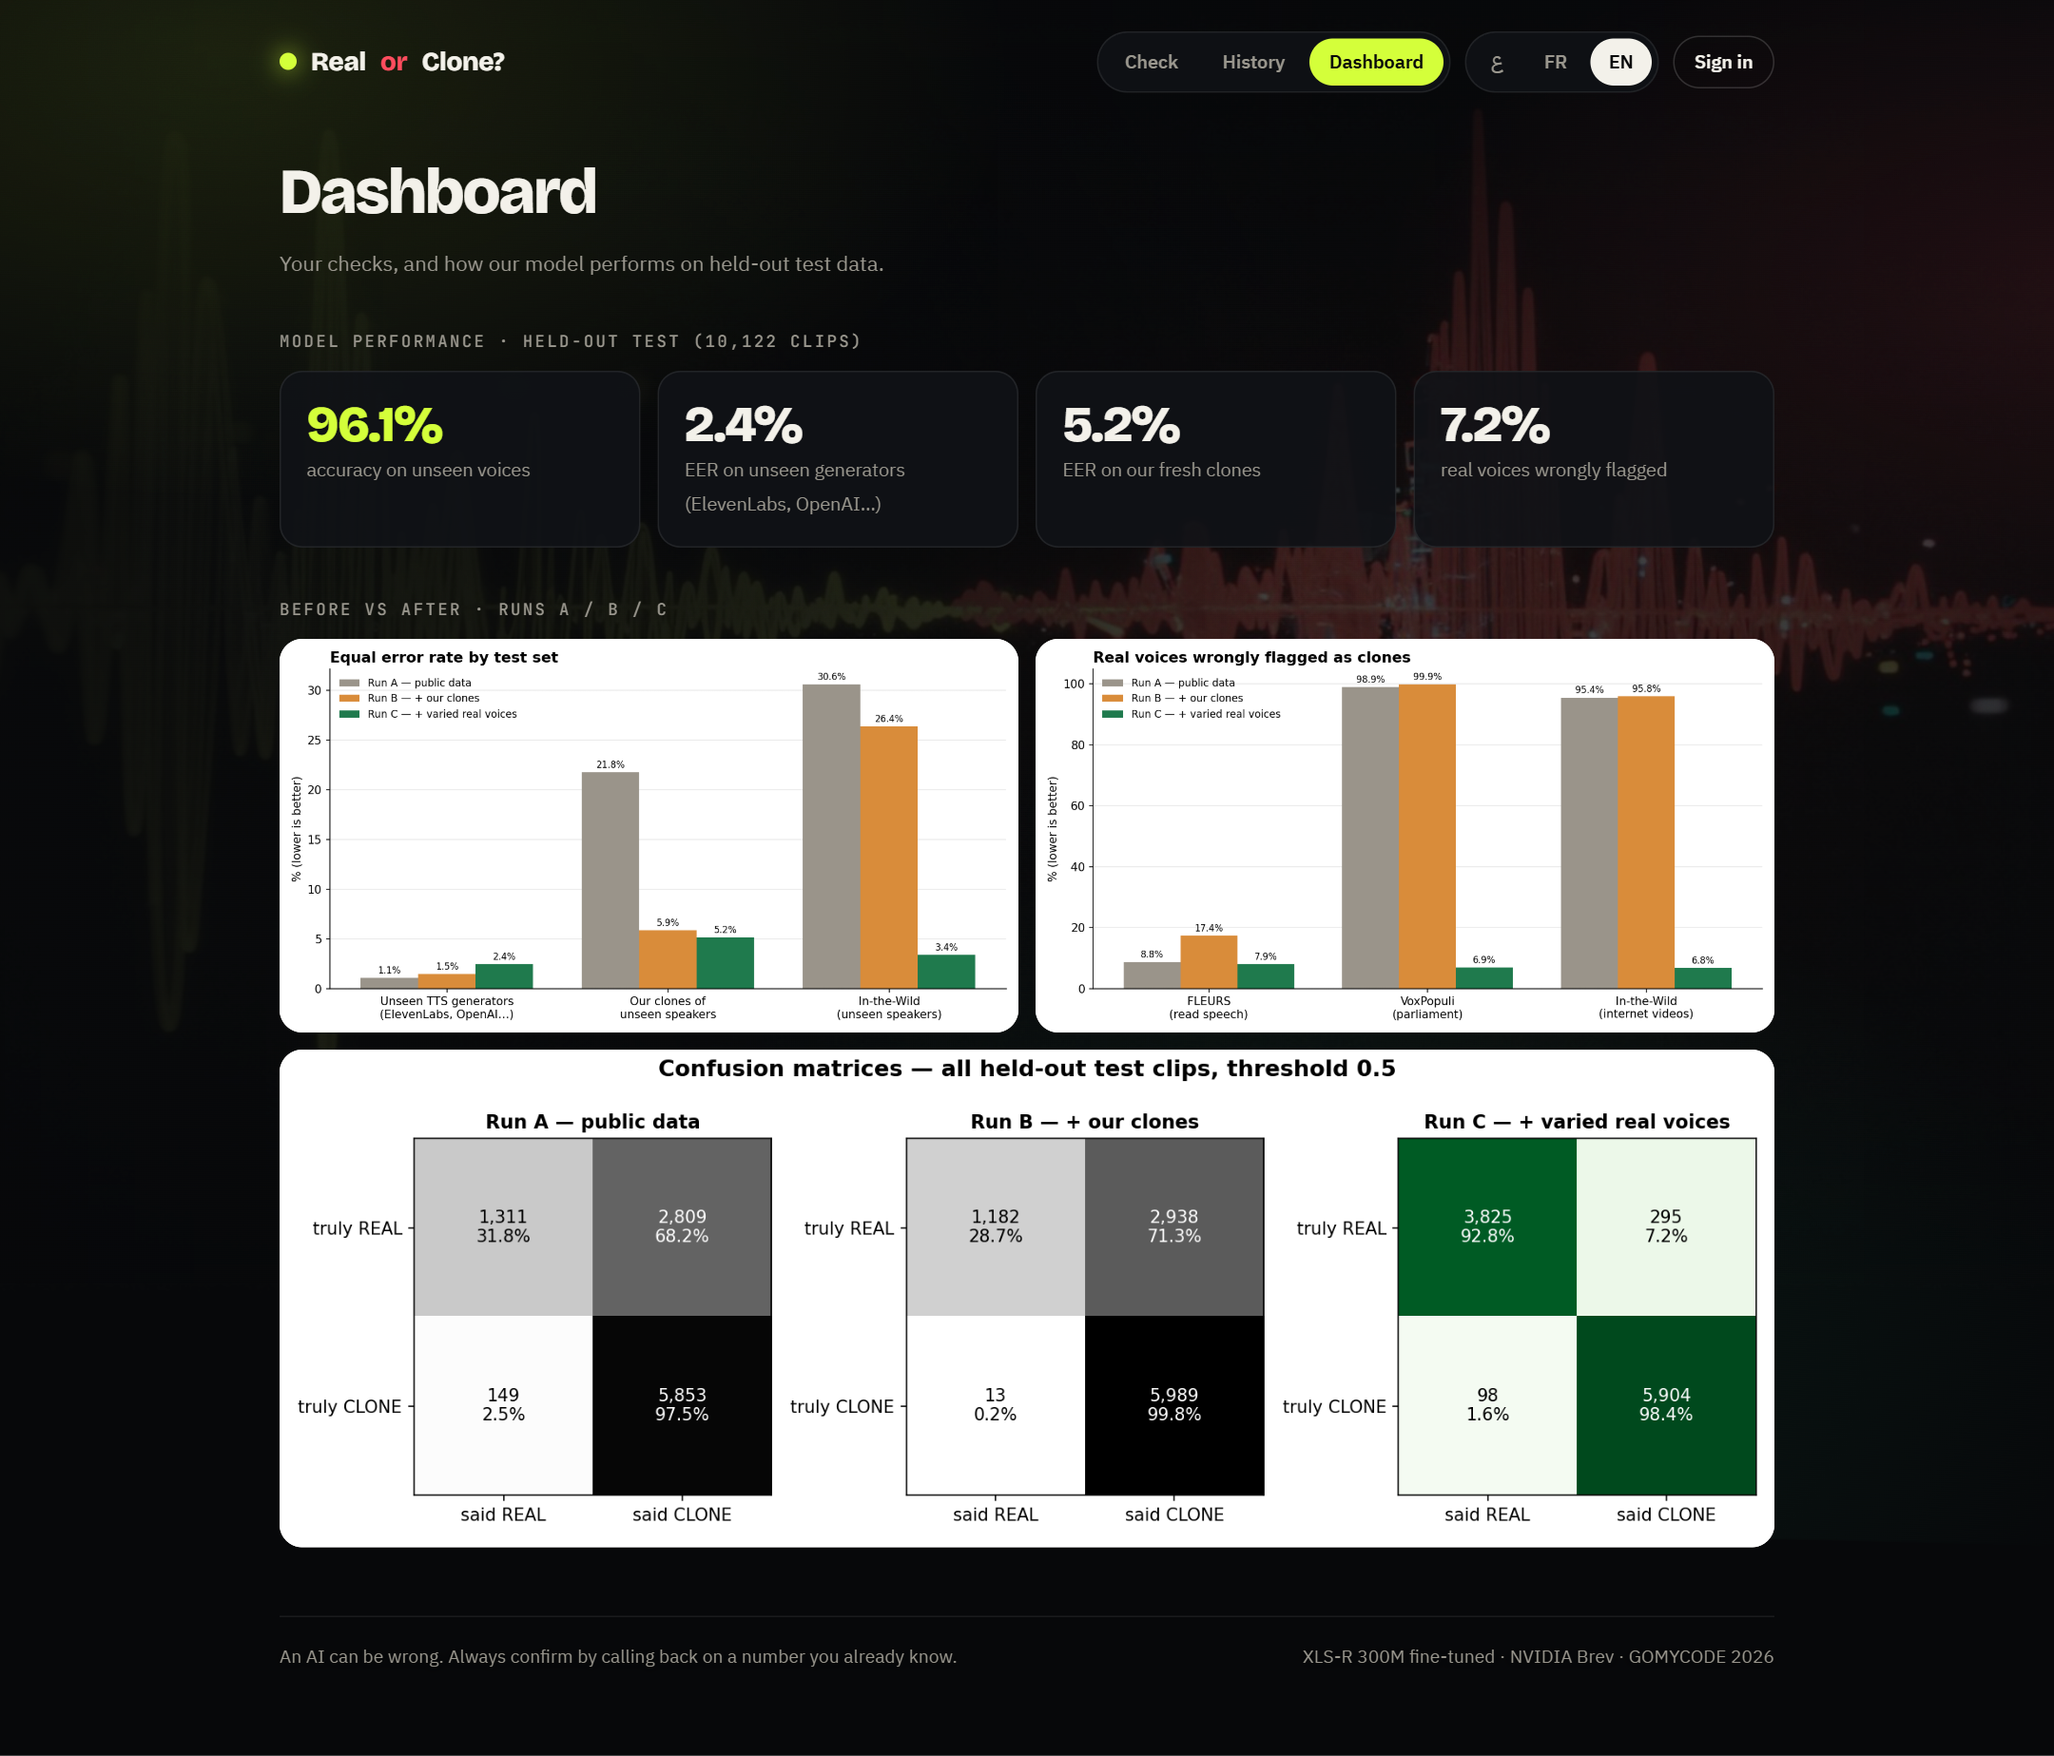
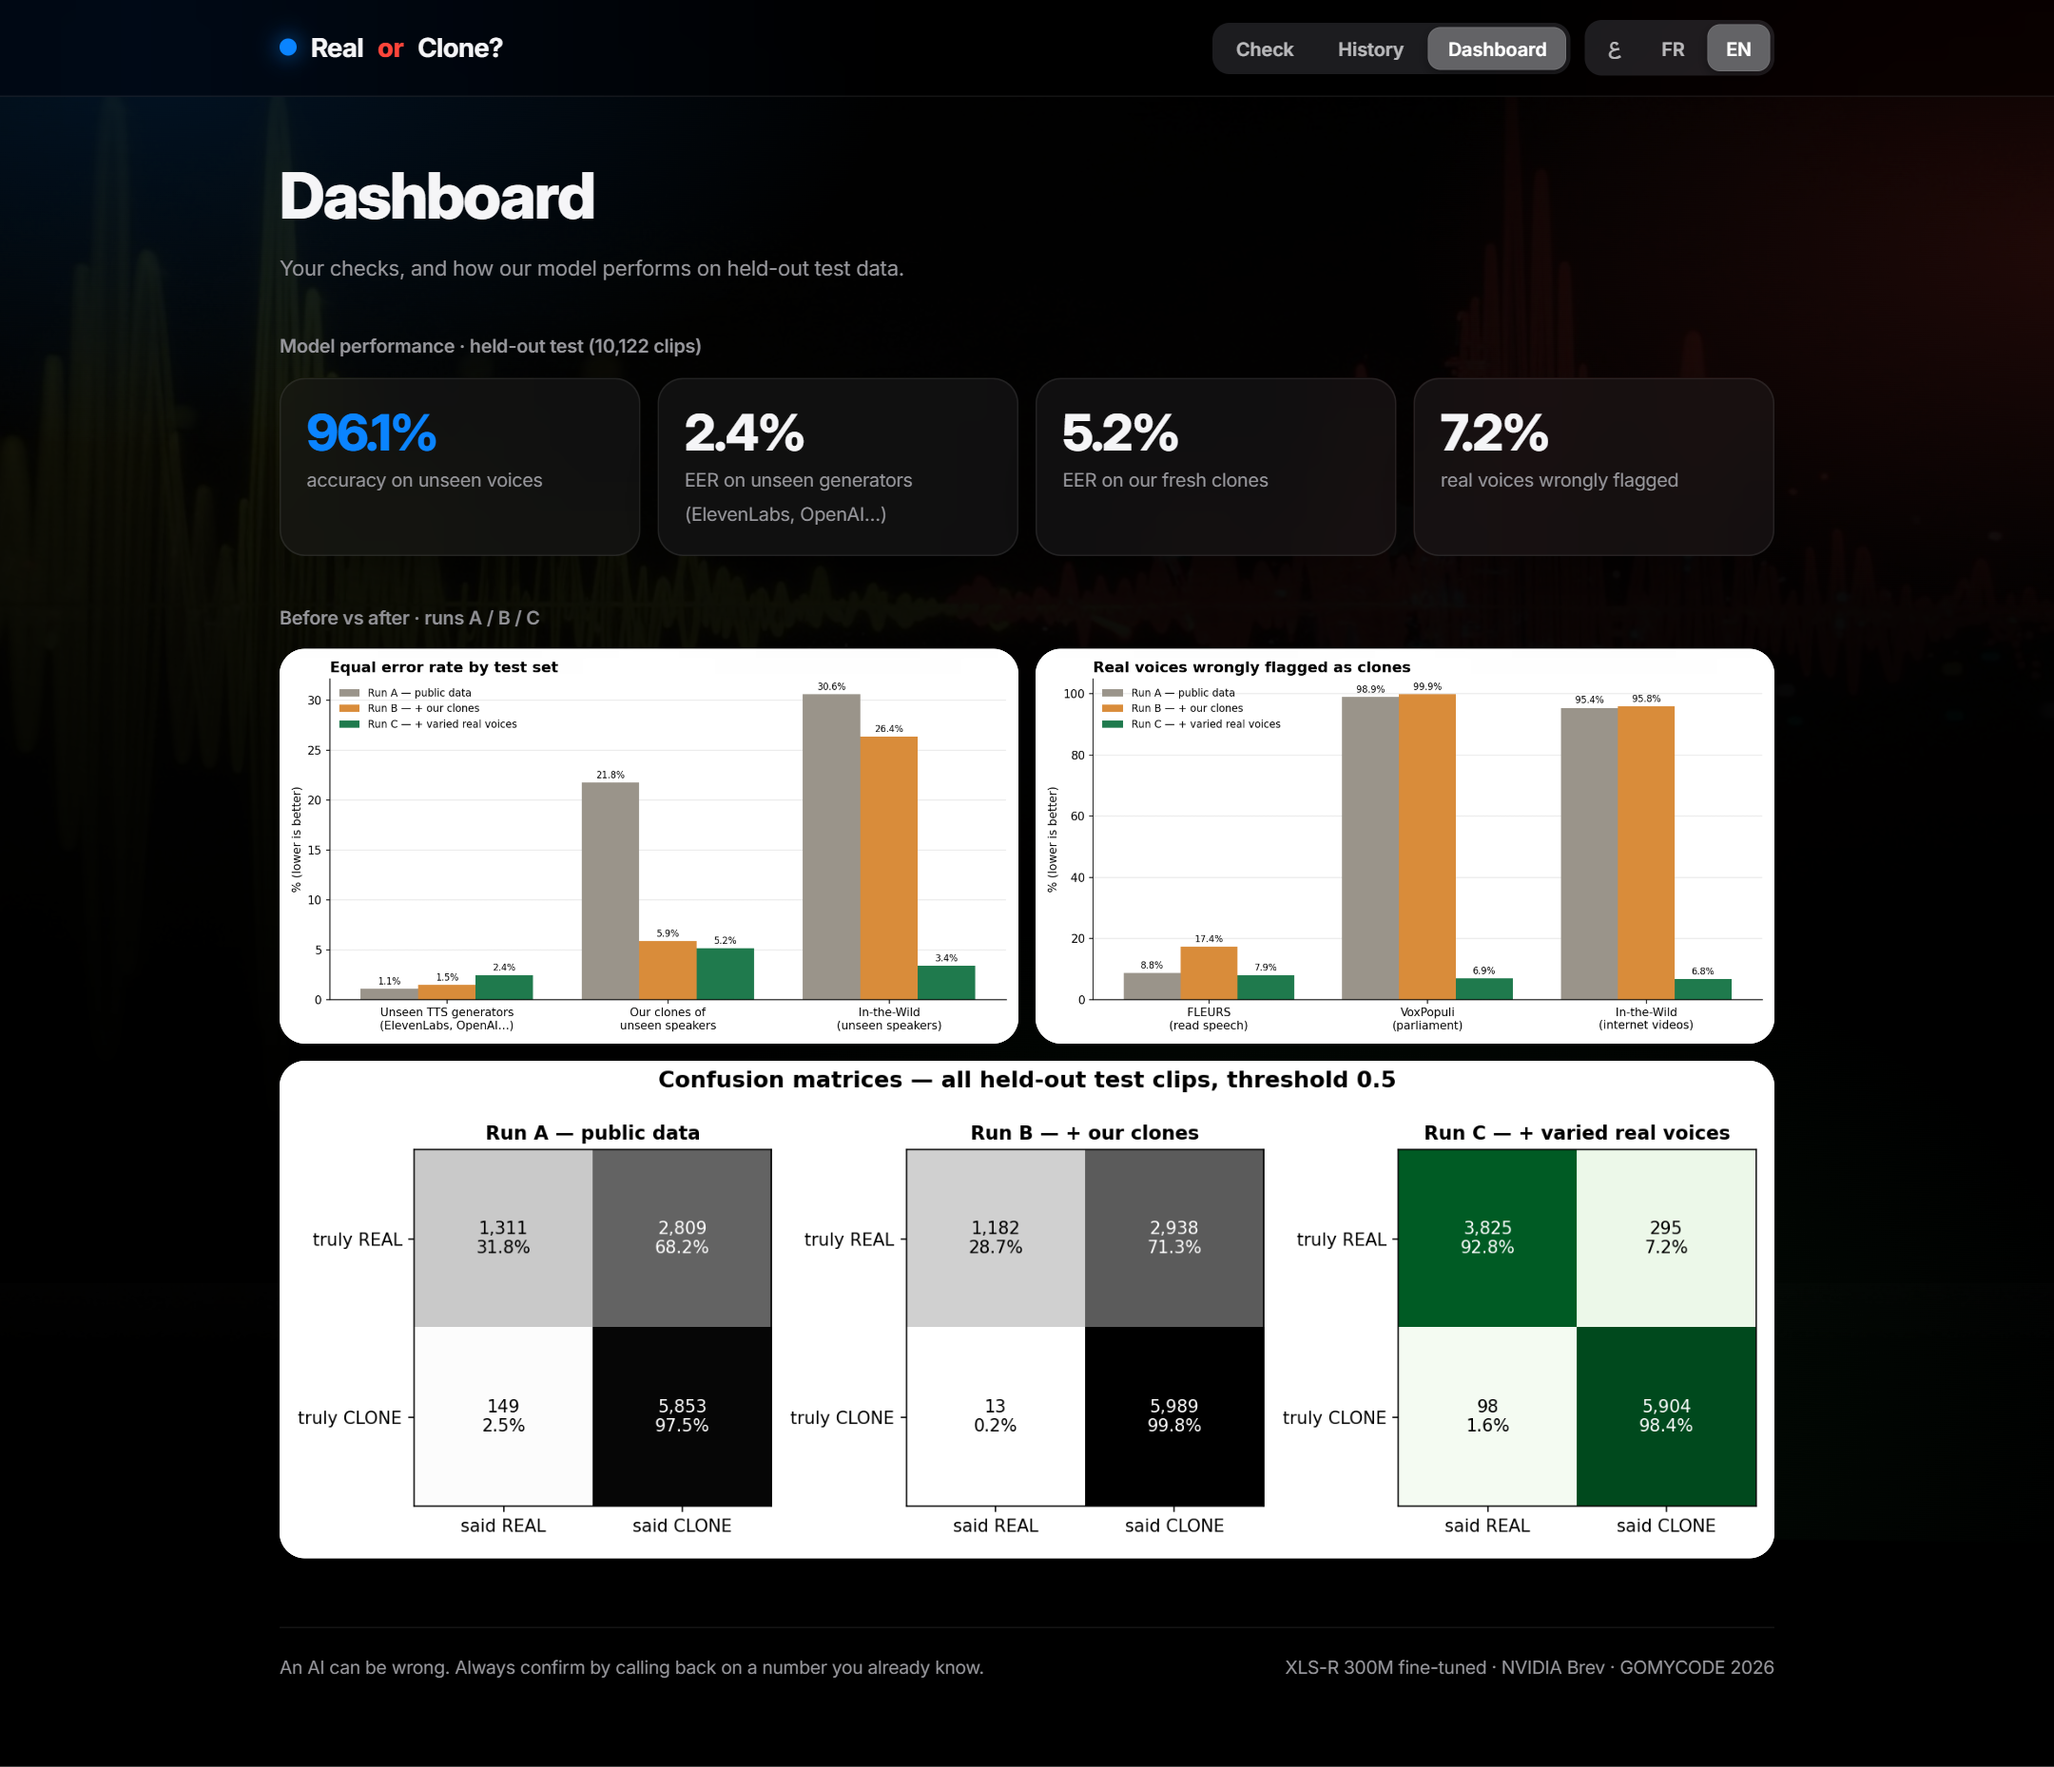
feat(design): Apple-style UI — SF type, glass cards, iOS segmented controls, system colours, spring interactions, parallax Ken Burns background

diff --git a/web/index.html b/web/index.html
@@ -2,11 +2,12 @@
 <html lang="en" dir="ltr">
 <head>
 <meta charset="utf-8">
-<meta name="viewport" content="width=device-width, initial-scale=1">
+<meta name="viewport" content="width=device-width, initial-scale=1, viewport-fit=cover">
+<meta name="theme-color" content="#000000">
 <title>Real or Clone?</title>
 <meta name="description" content="Check if a voice note is a real voice or an AI clone: verdict, suspicious seconds and safety tips in Arabic, French and English.">
 <link rel="preconnect" href="https://fonts.googleapis.com">
-<link href="https://fonts.googleapis.com/css2?family=Bricolage+Grotesque:opsz,wght@12..96,500;12..96,700;12..96,800&family=IBM+Plex+Sans+Arabic:wght@400;600;700&family=JetBrains+Mono:wght@500&display=swap" rel="stylesheet">
+<link href="https://fonts.googleapis.com/css2?family=Inter:opsz,wght@14..32,400..800&family=IBM+Plex+Sans+Arabic:wght@400;600;700&family=JetBrains+Mono:wght@500&display=swap" rel="stylesheet">
 <style>
   :root {
     --ink: #07080A; --ink-2: #0E1014; --card: rgba(16, 18, 22, 0.9); --line: rgba(255, 255, 255, 0.08);
@@ -212,6 +213,105 @@
     .brand b, .brand { font-size: .92rem; }
     .seg button { padding: 6px 7px; min-width: 30px; }
   }
+
+  /* ================= Apple-style layer (dark, glass, SF type, springs) ================= */
+  :root {
+    --ink: #000; --ink-2: rgba(118,118,128,.24); --card: rgba(28,28,30,.55);
+    --line: rgba(255,255,255,.08); --line-2: rgba(255,255,255,.14);
+    --text: #F5F5F7; --muted: #98989D; --accent: #0A84FF;
+    --real: #30D158; --clone: #FF453A; --unsure: #FF9F0A;
+    --r-lg: 28px; --r-md: 18px;
+    --display: -apple-system, BlinkMacSystemFont, "SF Pro Display", "Inter", "IBM Plex Sans Arabic", system-ui, sans-serif;
+    --body: -apple-system, BlinkMacSystemFont, "SF Pro Text", "Inter", "IBM Plex Sans Arabic", system-ui, sans-serif;
+    --mono: ui-monospace, "SF Mono", "JetBrains Mono", monospace;
+    --spring: cubic-bezier(.34, 1.56, .64, 1); --ease: cubic-bezier(.22, 1, .36, 1);
+    --glass: saturate(180%) blur(28px);
+  }
+  body { -webkit-font-smoothing: antialiased; -moz-osx-font-smoothing: grayscale; letter-spacing: -.01em; }
+  /* background: the same waveform, slow Ken Burns + parallax (translate is composed separately) */
+  .art { opacity: .5; translate: var(--px, 0px) calc(var(--py, 0px) + var(--sy, 0px));
+    animation: kenburns 26s var(--ease) infinite alternate; will-change: transform, translate; }
+  @keyframes kenburns { from { transform: scale(1.04); filter: saturate(1) brightness(1); } to { transform: scale(1.14); filter: saturate(1.25) brightness(1.08); } }
+  .scrim { background: radial-gradient(120% 90% at 30% 20%, rgba(0,0,0,.55), rgba(0,0,0,.85) 70%), linear-gradient(180deg, rgba(0,0,0,.2), #000 92%); }
+  .glow { background: radial-gradient(38% 32% at 18% 18%, rgba(10,132,255,.14), transparent 70%),
+                      radial-gradient(34% 30% at 86% 28%, rgba(255,69,58,.12), transparent 70%),
+                      radial-gradient(40% 40% at 60% 92%, rgba(48,209,88,.08), transparent 70%); animation-duration: 30s; }
+  .grain { opacity: .035; }
+
+  header { position: sticky; top: 0; z-index: 40; margin: -22px calc(50% - 50vw) 0; padding: 14px max(16px, calc(50vw - 540px + 16px));
+    background: rgba(0,0,0,.55); -webkit-backdrop-filter: var(--glass); backdrop-filter: var(--glass);
+    border-bottom: 1px solid var(--line); }
+  .brand { font-weight: 700; letter-spacing: -.02em; }
+  .brand i { background: var(--accent); box-shadow: 0 0 16px rgba(10,132,255,.9); }
+  /* segmented controls (iOS) */
+  .seg, .views, .tabs { background: var(--ink-2); border: 0; border-radius: 12px; padding: 3px; }
+  .seg button, .views button, .tab { border-radius: 9px; color: var(--text); opacity: .72; font-weight: 600;
+    transition: background .35s var(--ease), opacity .25s, transform .3s var(--spring), box-shadow .35s; }
+  .seg button[aria-pressed="true"], .views button[aria-pressed="true"], .tab[aria-selected="true"] {
+    background: #636366; color: #fff; opacity: 1; box-shadow: 0 3px 8px rgba(0,0,0,.35), inset 0 0 0 .5px rgba(255,255,255,.12); }
+  .seg button:active, .views button:active, .tab:active { transform: scale(.95); }
+  .signin { background: var(--ink-2); border: 0; border-radius: 980px; color: var(--text); font-weight: 600; transition: transform .3s var(--spring), background .2s; }
+  .signin:hover { background: rgba(118,118,128,.36); color: var(--text); }
+  .signin:active { transform: scale(.95); }
+
+  /* type */
+  .kicker { font-family: var(--body); font-size: .95rem; letter-spacing: -.01em; text-transform: none; font-weight: 600; color: var(--accent); }
+  h1 { font-weight: 700; letter-spacing: -.045em; line-height: 1.02; }
+  h1 em { background: linear-gradient(90deg, #FF453A, #FF9F0A); -webkit-background-clip: text; background-clip: text; color: transparent;
+    text-shadow: none; filter: drop-shadow(0 6px 24px rgba(255,69,58,.35)); }
+  .lede { color: #A1A1A6; font-size: 1.15rem; line-height: 1.45; }
+  .pill { font-family: var(--body); font-weight: 500; background: var(--ink-2); border: 0; -webkit-backdrop-filter: var(--glass); backdrop-filter: var(--glass); }
+  .pill b { color: var(--text); font-weight: 700; }
+  .label, .models > span, .panel h2, .section-h { font-family: var(--body); text-transform: none; letter-spacing: -.01em; font-size: .82rem; font-weight: 600; color: var(--muted); }
+
+  /* glass cards */
+  .panel, .kpi, .hrow, .empty { background: var(--card); -webkit-backdrop-filter: var(--glass); backdrop-filter: var(--glass);
+    border: 1px solid var(--line); box-shadow: 0 24px 60px -28px rgba(0,0,0,.85); }
+  .panel { border-radius: var(--r-lg); }
+  .kpi, .hrow { transition: transform .45s var(--spring), background .3s; }
+  .kpi:hover, .hrow:hover { transform: translateY(-3px); background: rgba(44,44,46,.6); }
+  .drop { border: 1.5px dashed rgba(255,255,255,.18); border-radius: 20px; transition: border-color .3s, background .3s, transform .4s var(--spring); }
+  .drop:hover, .drop.over { border-color: var(--accent); background: rgba(10,132,255,.07); transform: scale(1.01); }
+  .gate { border: 0; background: rgba(118,118,128,.1); border-radius: 22px; }
+  /* buttons: Apple pill */
+  .cta { background: var(--accent); color: #fff; border-radius: 980px; font-weight: 600; letter-spacing: -.01em;
+    box-shadow: 0 10px 30px -10px rgba(10,132,255,.7); transition: transform .35s var(--spring), filter .2s, box-shadow .3s; }
+  .cta:hover { filter: brightness(1.1); box-shadow: 0 14px 36px -10px rgba(10,132,255,.85); }
+  .cta:active { transform: scale(.96); }
+  .cta .dot { background: #fff; }
+  .cta.on { background: var(--clone); box-shadow: 0 10px 30px -10px rgba(255,69,58,.7); }
+  .again, .icon-btn { background: var(--ink-2); border: 0; border-radius: 980px; transition: transform .3s var(--spring), background .2s; }
+  .icon-btn { border-radius: 50%; }
+  .again:active, .icon-btn:active { transform: scale(.92); }
+  .icon-btn.del:hover { background: rgba(255,69,58,.2); color: var(--clone); }
+
+  /* result */
+  .verdict { border: 0; -webkit-backdrop-filter: var(--glass); backdrop-filter: var(--glass); box-shadow: 0 24px 60px -28px rgba(0,0,0,.85); }
+  .verdict.likely_real { background: linear-gradient(160deg, rgba(48,209,88,.22), rgba(28,28,30,.6) 60%); }
+  .verdict.likely_clone { background: linear-gradient(160deg, rgba(255,69,58,.26), rgba(28,28,30,.6) 60%); }
+  .verdict.uncertain { background: linear-gradient(160deg, rgba(255,159,10,.22), rgba(28,28,30,.6) 60%); }
+  .vicon { box-shadow: 0 0 0 6px color-mix(in srgb, var(--v) 12%, transparent); }
+  .track { height: 8px; background: rgba(118,118,128,.28); }
+  .timeline b { border-radius: 8px 8px 4px 4px; }
+  ol.tips li::before { border-radius: 50%; background: rgba(10,132,255,.18); color: var(--accent); font-family: var(--body); font-weight: 700; }
+  .stage.done i { background: var(--accent); border-color: var(--accent); }
+  .stage.active i { border-color: var(--accent); }
+  .saved { color: var(--real); font-family: var(--body); font-weight: 600; }
+  .figs img { border-radius: 18px; }
+  .src { font-family: var(--body); font-size: .78rem; letter-spacing: -.01em; }
+  footer { border-top-color: var(--line); }
+
+  @media (max-width: 760px) {
+    /* no backdrop-filter here: it would become the containing block of the fixed tab bar inside it */
+    header { margin: -14px calc(50% - 50vw) 0; padding: 12px 14px; -webkit-backdrop-filter: none; backdrop-filter: none; background: rgba(0,0,0,.88); }
+    /* iOS tab bar: translucent, no filled pill, tinted icon when selected */
+    .views { background: rgba(28,28,30,.7); -webkit-backdrop-filter: var(--glass); backdrop-filter: var(--glass);
+      border: 1px solid var(--line); border-radius: 26px; }
+    .views button[aria-pressed="true"] { background: transparent; box-shadow: none; color: var(--accent); }
+    .views button { opacity: .6; }
+    h1 { letter-spacing: -.04em; }
+  }
+  @media (prefers-reduced-motion: reduce) { .art { animation: none; translate: none; } }
   [dir="rtl"] h1, [dir="rtl"] .vbig { font-family: var(--body); letter-spacing: 0; line-height: 1.2; }
   @media (prefers-reduced-motion: reduce) { .art, .glow, .cta.on .dot, .stage.active i { animation: none; } }
 </style>
@@ -526,6 +626,23 @@ $("again").addEventListener("click", () => { $("result").classList.remove("show"
 document.querySelectorAll("header .seg button").forEach((b) => b.addEventListener("click", () => setLang(b.dataset.lang)));
 setLang("en");
 
+// Apple-style parallax: the waveform drifts with the pointer and scroll (one rAF per frame, off when reduced motion).
+(() => {
+  if (matchMedia("(prefers-reduced-motion: reduce)").matches) return;
+  const art = document.querySelector(".art");
+  let px = 0, py = 0, tx = 0, ty = 0, raf = 0;
+  const tick = () => {
+    px += (tx - px) * 0.06; py += (ty - py) * 0.06;
+    art.style.setProperty("--px", px.toFixed(1) + "px");
+    art.style.setProperty("--py", py.toFixed(1) + "px");
+    art.style.setProperty("--sy", (-scrollY * 0.12).toFixed(1) + "px");
+    raf = Math.abs(tx - px) + Math.abs(ty - py) > 0.2 ? requestAnimationFrame(tick) : 0;
+  };
+  const kick = () => { if (!raf) raf = requestAnimationFrame(tick); };
+  addEventListener("pointermove", (e) => { tx = (e.clientX / innerWidth - 0.5) * -28; ty = (e.clientY / innerHeight - 0.5) * -18; kick(); }, { passive: true });
+  addEventListener("scroll", kick, { passive: true });
+})();
+
 // ---------- Clerk login ----------
 let clerk = null;
 async function authHeaders() {
@@ -622,6 +739,7 @@ async function renderDash() {
 }
 function showView(v) {
   stopPlayer();
+  anim("#view-" + v, { opacity: [0, 1], y: [14, 0], scale: [0.99, 1] }, { duration: 0.5, ease: [0.22, 1, 0.36, 1] });
   document.querySelectorAll(".views button").forEach((b) => b.setAttribute("aria-pressed", b.dataset.view === v));
   ["check", "history", "dash"].forEach((k) => { $("view-" + k).hidden = k !== v; });
   if (v === "history") renderHistory();

diff --git a/docs/shots.py b/docs/shots.py
@@ -1,5 +1,6 @@
 """Screenshots of the app for the slides: python docs/shots.py (app running on localhost:8010)."""
 import json
+import os
 from pathlib import Path
 
 from playwright.sync_api import sync_playwright
@@ -13,7 +14,7 @@ UNLOCK = "document.getElementById('panel').classList.remove('locked'); document.
 with sync_playwright() as p:
     b = p.chromium.launch(channel="chrome")
     pg = b.new_page(viewport={"width": 1440, "height": 900}, device_scale_factor=1.5)
-    pg.goto("http://localhost:8010/", wait_until="networkidle")
+    pg.goto(os.environ.get("APP_URL", "http://localhost:8010/"), wait_until="networkidle")
     pg.wait_for_timeout(2500)
     pg.screenshot(path=str(OUT / "1_home.png"))
     pg.evaluate(UNLOCK + f"render({json.dumps(MOCK)}, false); window.scrollTo(0, 0);")
@@ -26,7 +27,7 @@ with sync_playwright() as p:
     pg.wait_for_timeout(1500)
     pg.screenshot(path=str(OUT / "4_dashboard.png"), full_page=True)
     mob = b.new_page(viewport={"width": 390, "height": 844}, device_scale_factor=2)
-    mob.goto("http://localhost:8010/", wait_until="networkidle")
+    mob.goto(os.environ.get("APP_URL", "http://localhost:8010/"), wait_until="networkidle")
     mob.wait_for_timeout(2000)
     mob.evaluate(UNLOCK + f"render({json.dumps(MOCK)}, false); document.getElementById('result').scrollIntoView();")
     mob.wait_for_timeout(1200)
